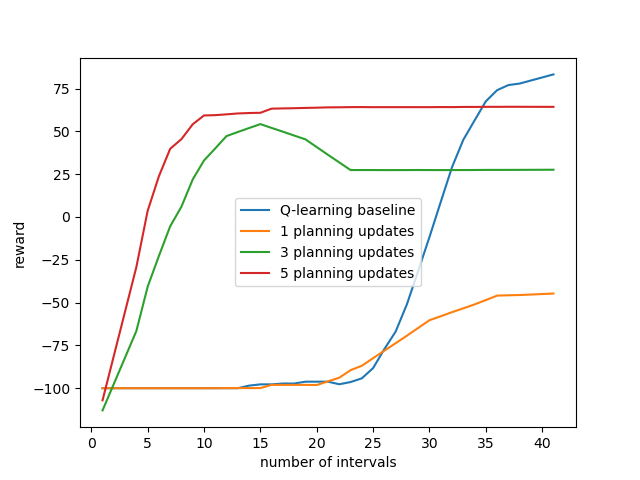
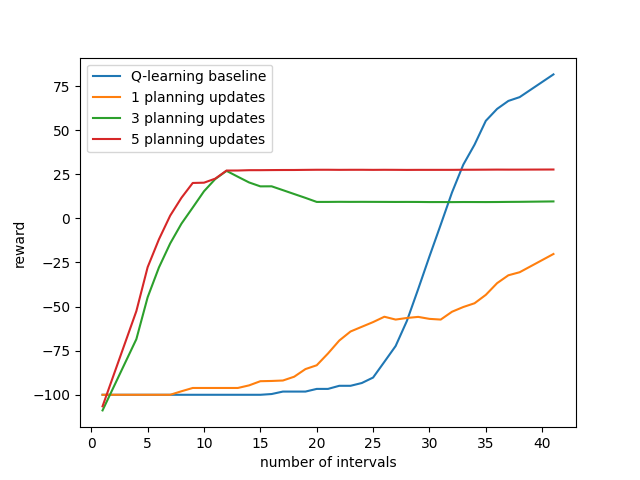
final

diff --git a/MBRLExperiment.py b/MBRLExperiment.py
@@ -20,40 +20,115 @@ def experiment():
     gamma = 1.0
     learning_rate = 0.2
     epsilon=0.1
-    
+
     wind_proportions=[0.9,1.0]
-    n_planning_updates = [0,1,3,5]
-    
-    # IMPLEMENT YOUR EXPERIMENT HERE
-    all_evals = []
-    for planning_update in n_planning_updates:
-        rep_evals = []
-        for n in range(n_repetitions):
-            WG_env = WindyGridworld(wind_proportion=wind_proportions[0])
-            if planning_update == 0:
-                Dyna_agent = DynaAgent(WG_env.n_states, WG_env.n_actions, learning_rate, gamma)
-                eval = run_repetitions(Dyna_agent, WG_env, WG_env, n_timesteps, eval_interval, epsilon, planning_update)
+    for wind_proportion in wind_proportions:
+        n_planning_updates = [0,5,6]
+
+        # IMPLEMENT YOUR EXPERIMENT HERE
+        all_evals = []
+        for planning_update in n_planning_updates:
+            rep_evals = []
+            for n in range(n_repetitions):
+                WG_env = WindyGridworld(wind_proportion=wind_proportion)
+                if planning_update == 0:
+                    Dyna_agent = DynaAgent(WG_env.n_states, WG_env.n_actions, learning_rate, gamma)
+                    eval = run_repetitions(Dyna_agent, WG_env, WG_env, n_timesteps, eval_interval, epsilon, planning_update)
+                    rep_evals.append(eval)
+                elif planning_update == 5:
+                    D_agent = DynaAgent(WG_env.n_states, WG_env.n_actions, learning_rate, gamma)
+                    eval = run_repetitions(D_agent, WG_env, WG_env, n_timesteps, eval_interval, epsilon, planning_update)
+                    rep_evals.append(eval)
+                else:
+                    PS_agent = PrioritizedSweepingAgent(WG_env.n_states, WG_env.n_actions, learning_rate, gamma)
+                    eval = run_repetitions(PS_agent, WG_env, WG_env, n_timesteps, eval_interval, epsilon, planning_update-1)
+                    rep_evals.append(eval)
+
+            all_evals.append(rep_evals)
+        all_avg_evals = []
+        for rep_evals in all_evals:
+            avg_eval = np.mean(rep_evals, axis=0)
+            all_avg_evals.append(avg_eval)
+        plt.figure()
+        for i in range(len(all_avg_evals)):
+            smoothed_eval = smooth(all_avg_evals[i], 8)  # Adjust window_size as needed
+            if n_planning_updates[i] == 0:
+                plt.plot(range(1, len(all_avg_evals[i]) + 1), smoothed_eval, label=f"Q-learning baseline")
+            elif i == 1:
+                plt.plot(range(1, len(all_avg_evals[i]) + 1), smoothed_eval, label=f"Dyna with {n_planning_updates[i]} planning updates")
             else:
-                PS_agent = PrioritizedSweepingAgent(WG_env.n_states, WG_env.n_actions, learning_rate, gamma)
-                eval = run_repetitions(PS_agent, WG_env, WG_env, n_timesteps, eval_interval, epsilon, planning_update)
-            rep_evals.append(eval)
-        all_evals.append(rep_evals)
-    all_avg_evals = []
-    for rep_evals in all_evals:
-        avg_eval = np.mean(rep_evals, axis=0)
-        all_avg_evals.append(avg_eval)
-    plt.figure()
-    for i in range(len(all_avg_evals)):
-        smoothed_eval = smooth(all_avg_evals[i], 8)  # Adjust window_size as needed
-        if n_planning_updates[i] == 0:
-            plt.plot(range(1, len(all_avg_evals[i]) + 1), smoothed_eval, label=f"Q-learning baseline")
-        else:
-            plt.plot(range(1, len(all_avg_evals[i]) + 1), smoothed_eval, label=f"{n_planning_updates[i]} planning updates")
-    plt.legend()
-    plt.xlabel("number of intervals")
-    plt.ylabel("reward")
-    plt.savefig(f"PS_wind_proportion_{wind_proportions[0]}.png")
-    plt.show()
+                plt.plot(range(1, len(all_avg_evals[i]) + 1), smoothed_eval, label=f"PS with {n_planning_updates[i-1]} planning updates")
+
+        plt.legend()
+        plt.xlabel("number of intervals")
+        plt.ylabel("reward")
+        plt.savefig(f"comparison_wind_proportion_{wind_proportion}.png")
+        plt.show()
+
+
+
+        n_planning_updates = [0,1,3,5]
+
+        # IMPLEMENT YOUR EXPERIMENT HERE
+        all_evals = []
+        for planning_update in n_planning_updates:
+            rep_evals = []
+            for n in range(n_repetitions):
+                WG_env = WindyGridworld(wind_proportion=wind_proportion)
+                if planning_update == 0:
+                    Dyna_agent = DynaAgent(WG_env.n_states, WG_env.n_actions, learning_rate, gamma)
+                    eval = run_repetitions(Dyna_agent, WG_env, WG_env, n_timesteps, eval_interval, epsilon, planning_update)
+                else:
+                    PS_agent = PrioritizedSweepingAgent(WG_env.n_states, WG_env.n_actions, learning_rate, gamma)
+                    eval = run_repetitions(PS_agent, WG_env, WG_env, n_timesteps, eval_interval, epsilon, planning_update)
+                rep_evals.append(eval)
+            all_evals.append(rep_evals)
+        all_avg_evals = []
+        for rep_evals in all_evals:
+            avg_eval = np.mean(rep_evals, axis=0)
+            all_avg_evals.append(avg_eval)
+        plt.figure()
+        for i in range(len(all_avg_evals)):
+            smoothed_eval = smooth(all_avg_evals[i], 8)  # Adjust window_size as needed
+            if n_planning_updates[i] == 0:
+                plt.plot(range(1, len(all_avg_evals[i]) + 1), smoothed_eval, label=f"Q-learning baseline")
+            else:
+                plt.plot(range(1, len(all_avg_evals[i]) + 1), smoothed_eval, label=f"{n_planning_updates[i]} planning updates")
+
+        plt.legend()
+        plt.xlabel("number of intervals")
+        plt.ylabel("reward")
+        plt.savefig(f"PS_wind_proportion_{wind_proportion}.png")
+        plt.show()
+
+        n_planning_updates = [0,1,3,5]
+        # IMPLEMENT YOUR EXPERIMENT HERE
+        all_evals = []
+        for planning_update in n_planning_updates:
+            rep_evals = []
+            for n in range(n_repetitions):
+                WG_env = WindyGridworld(wind_proportion=wind_proportion)
+                D_agent = DynaAgent(WG_env.n_states, WG_env.n_actions, learning_rate, gamma)
+                eval = run_repetitions(D_agent, WG_env, WG_env, n_timesteps, eval_interval, epsilon, planning_update)
+                rep_evals.append(eval)
+            all_evals.append(rep_evals)
+        all_avg_evals = []
+        for rep_evals in all_evals:
+            avg_eval = np.mean(rep_evals, axis=0)
+            all_avg_evals.append(avg_eval)
+        plt.figure()
+        for i in range(len(all_avg_evals)):
+            smoothed_eval = smooth(all_avg_evals[i], 8)  # Adjust window_size as needed
+            if n_planning_updates[i] == 0:
+                plt.plot(range(1, len(all_avg_evals[i]) + 1), smoothed_eval, label=f"Q-learning baseline")
+            else:
+                plt.plot(range(1, len(all_avg_evals[i]) + 1), smoothed_eval, label=f"{n_planning_updates[i]} planning updates")
+
+        plt.legend()
+        plt.xlabel("number of intervals")
+        plt.ylabel("reward")
+        plt.savefig(f"Dyna_wind_proportion_{wind_proportion}.png")
+        plt.show()
 
 
 def run_repetitions(agent, env, eval_env, n_timesteps, eval_interval, epsilon, planning_update):

diff --git a/MBRLAgents.py b/MBRLAgents.py
@@ -37,7 +37,6 @@ class DynaAgent:
         # TO DO: Add Dyna update
         self.transition_counts[s][a][s_next] += 1
         self.reward_sums[s][a][s_next] += r
-        #if not done:
         self.Q_sa[s, a] += self.learning_rate * (r + self.gamma * np.max(self.Q_sa[s_next]) - self.Q_sa[s,a])
 
         for k in range(n_planning_updates):
@@ -85,11 +84,9 @@ class PrioritizedSweepingAgent:
        
         self.Q_sa = np.zeros((n_states,n_actions))
         # TO DO: Initialize count tables, reward sum tables, priority queue
-        #self.means = np.zeros((n_states,n_actions))
         self.transition_counts = np.zeros((n_states,n_actions,n_states))
         self.reward_sums = np.zeros((n_states,n_actions,n_states))
         self.queue = PriorityQueue()
-        #self.PQ = PriorityQueue()
        
     def select_action(self, s, epsilon):
         # TO DO: Change this to e-greedy action selection
@@ -100,16 +97,6 @@ class PrioritizedSweepingAgent:
         return a
        
     def update(self,s,a,r,done,s_next,n_planning_updates):
-       
-        # TO DO: Add Prioritized Sweeping code
-        #counter = 0
-        # Helper code to work with the queue
-        # Put (s,a) on the queue with priority p (needs a minus since the queue pops the smallest priority first)
-        # self.queue.put((-p,(s,a)))
-        # Retrieve the top (s,a) from the queue
-        # _,(s,a) = self.queue.get() # get the top (s,a) for the queue
-        
-        # Update the Q-value like Dyna
         self.transition_counts[s][a][s_next] += 1
         self.reward_sums[s][a][s_next] += r
         # Compute the priority of the state
